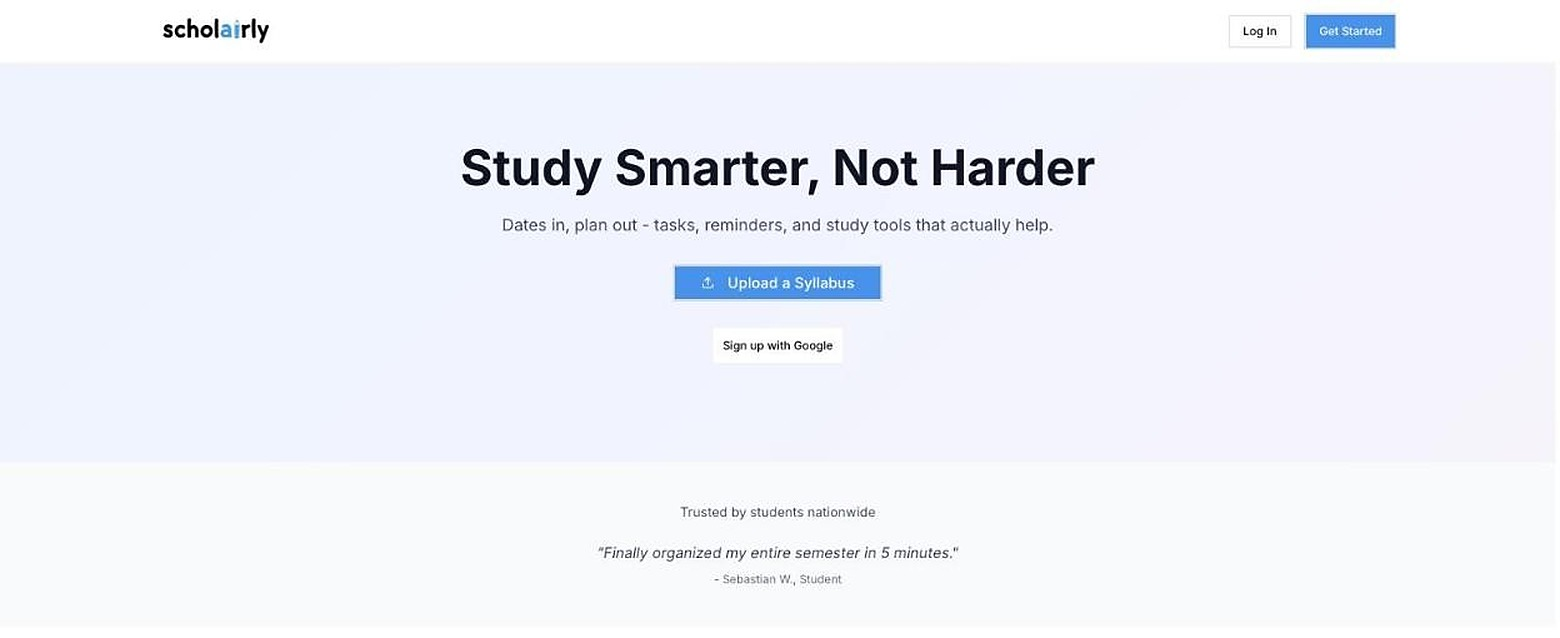
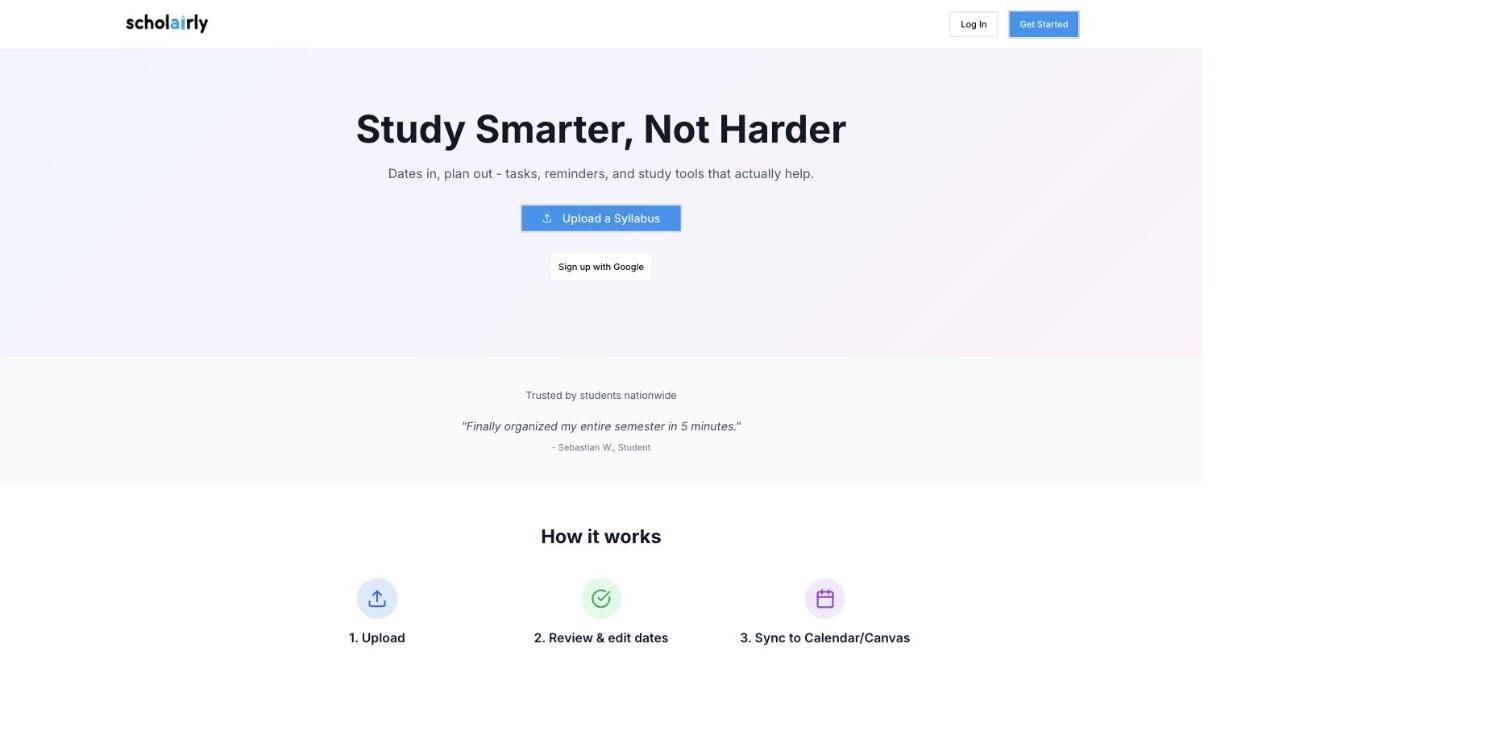
Add second images, fix mobile nav overflow, capitalize Scholairly
- Career Dashboard and Signal each get a second screenshot (the add-job /
  new-signal capture flow), matching the two-image pattern other projects use
- Reordered projects back: AI Suite before Career Dashboard — leads with
  current real CRE/AI work before the polished-but-unrelated job tracker
- Scholairly: capitalized everywhere in prose/UI text (site + GitHub
  profile README); left scholairly.com URLs and the folder path lowercase
- Re-cropped scholairly's landing screenshot to match the dashboard
  screenshot's aspect ratio — they were noticeably different heights
  side by side
- Mobile: found and fixed a real bug — the 8-item project nav was forcing
  itself into one row via flex:1, but flex items don't shrink below their
  own text's min-content width by default, so it silently overflowed
  instead of compressing. Switched it to horizontal scroll (same pattern
  as the Off Hours card track) instead of fighting flexbox to cram 8 short
  labels into one screen width

diff --git a/index.html b/index.html
@@ -1167,16 +1167,27 @@
 
   @media (max-width: 960px) {
     .proj-showcase { grid-template-columns: 1fr; }
+    /* 8 project names no longer fit evenly in one row (flex:1 with the
+       browser default min-width:auto refuses to shrink a flex item below
+       its own text content, so the row overflowed instead of compressing).
+       Scroll horizontally instead of squeezing — same pattern as the Off
+       Hours card track below. */
     .proj-nav {
       border-right: none;
       border-bottom: 1px solid var(--line);
       display: flex;
+      overflow-x: auto;
+      -webkit-overflow-scrolling: touch;
+      scrollbar-width: none;
     }
+    .proj-nav::-webkit-scrollbar { display: none; }
     .proj-nav-item {
-      flex: 1;
+      flex: 0 0 auto;
+      min-width: 150px;
       padding: 1.1rem 1rem;
       border-bottom: none;
       border-right: 1px solid var(--line);
+      white-space: nowrap;
     }
     .proj-nav-item:last-child { border-right: none; }
     .proj-nav-item.active::after { top: auto; left: 0; right: 0; bottom: -1px; width: auto; height: 2px; }
@@ -1512,7 +1523,7 @@
           <li><span>Based</span><strong>Atlanta / Miami</strong></li>
           <li><span>Studying</span><strong>Business Tech · CS · Math</strong></li>
           <li><span>Currently</span><strong>Goldenrod Companies</strong></li>
-          <li><span>Building</span><strong>scholairly · stackingplanner</strong></li>
+          <li><span>Building</span><strong>Scholairly · stackingplanner</strong></li>
           <li><span>Roles</span><strong>Founder · Engineer · Operator</strong></li>
         </ul>
       </aside>
@@ -1578,7 +1589,7 @@
             <div class="exp-detail-text">
               <ul>
                 <li>Built StackingPlanner.com, automating commercial real estate stacking plans with interactive visual layouts and saved dashboards.</li>
-                <li>Created scholairly.com — an AI-powered EdTech platform that reached <span class="count-num" data-target="147">147</span> student signups.</li>
+                <li>Created Scholairly.com — an AI-powered EdTech platform that reached <span class="count-num" data-target="147">147</span> student signups.</li>
                 <li>Owned the full product lifecycle: conception, development, launch, and user adoption.</li>
               </ul>
             </div>
@@ -1748,21 +1759,21 @@
           </div>
           <span class="proj-nav-arrow">→</span>
         </div>
-        <div class="proj-nav-item reveal" data-target="cd" data-hover>
-          <div class="proj-nav-num">/02</div>
-          <div class="proj-nav-name">Career Dashboard</div>
-          <div class="proj-nav-meta">
-            <span>Career Tech</span>
-            <span class="live">● Live</span>
-          </div>
-          <span class="proj-nav-arrow">→</span>
-        </div>
         <div class="proj-nav-item reveal" data-target="ai" data-hover>
-          <div class="proj-nav-num">/03</div>
+          <div class="proj-nav-num">/02</div>
           <div class="proj-nav-name">AI Suite</div>
           <div class="proj-nav-meta">
             <span>Automation</span>
             <span>● Internal</span>
+          </div>
+          <span class="proj-nav-arrow">→</span>
+        </div>
+        <div class="proj-nav-item reveal" data-target="cd" data-hover>
+          <div class="proj-nav-num">/03</div>
+          <div class="proj-nav-name">Career Dashboard</div>
+          <div class="proj-nav-meta">
+            <span>Career Tech</span>
+            <span class="live">● Live</span>
           </div>
           <span class="proj-nav-arrow">→</span>
         </div>
@@ -1777,7 +1788,7 @@
         </div>
         <div class="proj-nav-item reveal" data-target="sc" data-hover>
           <div class="proj-nav-num">/05</div>
-          <div class="proj-nav-name">scholairly</div>
+          <div class="proj-nav-name">Scholairly</div>
           <div class="proj-nav-meta">
             <span>EdTech</span>
             <span class="live">● Live</span>
@@ -1869,15 +1880,55 @@
           </div>
         </div>
 
+        <!-- AI Automation Suite -->
+        <div class="proj-panel panel-ai" id="panel-ai">
+          <div class="proj-panel-header">
+            <h3 class="proj-panel-title">AI Automation Suite</h3>
+            <span class="proj-visit coming">Internal Build</span>
+          </div>
+          <div class="proj-body">
+            <div>
+              <div class="proj-section">
+                <span class="proj-label">The Problem</span>
+                <p>Investment analysts at Goldenrod Companies were losing hours per deal to repeatable manual work: re-keying tenancy data into models, then hunting across scattered sources for market context before any real analysis could start.</p>
+              </div>
+              <div class="proj-section">
+                <span class="proj-label">What I Built</span>
+                <p>An internal AI toolkit that keeps growing as new bottlenecks come up: n8n pipelines that turn raw tenancy schedules into structured Excel financial models, and a market intelligence portal that pulls demographic, employer, and real estate data for any market into one AI-written brief.</p>
+              </div>
+            </div>
+            <div>
+              <div class="proj-section">
+                <span class="proj-label">Highlights</span>
+                <ul>
+                  <li>Automated extraction of submarket comps, property data, and lease terms — no manual data entry</li>
+                  <li>Prompt system queries OpenAI and Claude for structured field extraction, feeding existing Excel templates directly</li>
+                  <li>Market intelligence portal aggregates employer, demographic, and real estate data per market behind company login, with an AI-generated narrative brief</li>
+                  <li>Reduced multi-hour manual analysis to minutes per asset</li>
+                </ul>
+              </div>
+              <div class="proj-section">
+                <span class="proj-label">Stack</span>
+                <div class="proj-stack">
+                  <span data-tip="No-code workflow automation">n8n</span><span data-tip="Structured field extraction">OpenAI</span><span data-tip="Structured field extraction &amp; narrative generation">Claude</span><span data-tip="Backend for the market intelligence portal">FastAPI</span><span data-tip="Output format for analyst-ready models">Excel</span>
+                </div>
+              </div>
+            </div>
+          </div>
+        </div>
+
         <!-- Career Dashboard -->
         <div class="proj-panel panel-cd" id="panel-cd">
           <div class="proj-panel-header">
             <h3 class="proj-panel-title">Career Dashboard</h3>
             <a href="https://career-dashboard-ten.vercel.app" target="_blank" rel="noopener" class="proj-visit" data-hover>Visit ↗</a>
           </div>
-          <div class="proj-shots single">
+          <div class="proj-shots">
             <button type="button" class="proj-shot-trigger" data-hover>
               <img src="projects/career-dashboard/dashboard.jpg" alt="Career Dashboard job tracker showing a saved role with a 70/100 AI fit score" loading="lazy" />
+            </button>
+            <button type="button" class="proj-shot-trigger" data-hover>
+              <img src="projects/career-dashboard/add-job.jpg" alt="Adding a job to Career Dashboard: paste a link or job description and it fills in the details" loading="lazy" />
             </button>
           </div>
           <div class="proj-body">
@@ -1910,43 +1961,6 @@
                   <span data-tip="Cloud SQLite database">Turso</span>
                   <span data-tip="Powers scoring, chat &amp; extraction">Groq</span>
                   <span data-tip="Hosting &amp; CI/CD">Vercel</span>
-                </div>
-              </div>
-            </div>
-          </div>
-        </div>
-
-        <!-- AI Automation Suite -->
-        <div class="proj-panel panel-ai" id="panel-ai">
-          <div class="proj-panel-header">
-            <h3 class="proj-panel-title">AI Automation Suite</h3>
-            <span class="proj-visit coming">Internal Build</span>
-          </div>
-          <div class="proj-body">
-            <div>
-              <div class="proj-section">
-                <span class="proj-label">The Problem</span>
-                <p>Investment analysts at Goldenrod Companies were losing hours per deal to repeatable manual work: re-keying tenancy data into models, then hunting across scattered sources for market context before any real analysis could start.</p>
-              </div>
-              <div class="proj-section">
-                <span class="proj-label">What I Built</span>
-                <p>An internal AI toolkit that keeps growing as new bottlenecks come up: n8n pipelines that turn raw tenancy schedules into structured Excel financial models, and a market intelligence portal that pulls demographic, employer, and real estate data for any market into one AI-written brief.</p>
-              </div>
-            </div>
-            <div>
-              <div class="proj-section">
-                <span class="proj-label">Highlights</span>
-                <ul>
-                  <li>Automated extraction of submarket comps, property data, and lease terms — no manual data entry</li>
-                  <li>Prompt system queries OpenAI and Claude for structured field extraction, feeding existing Excel templates directly</li>
-                  <li>Market intelligence portal aggregates employer, demographic, and real estate data per market behind company login, with an AI-generated narrative brief</li>
-                  <li>Reduced multi-hour manual analysis to minutes per asset</li>
-                </ul>
-              </div>
-              <div class="proj-section">
-                <span class="proj-label">Stack</span>
-                <div class="proj-stack">
-                  <span data-tip="No-code workflow automation">n8n</span><span data-tip="Structured field extraction">OpenAI</span><span data-tip="Structured field extraction &amp; narrative generation">Claude</span><span data-tip="Backend for the market intelligence portal">FastAPI</span><span data-tip="Output format for analyst-ready models">Excel</span>
                 </div>
               </div>
             </div>
@@ -2005,18 +2019,18 @@
           </div>
         </div>
 
-        <!-- scholairly -->
+        <!-- Scholairly -->
         <div class="proj-panel panel-sc" id="panel-sc">
           <div class="proj-panel-header">
-            <h3 class="proj-panel-title">scholairly</h3>
+            <h3 class="proj-panel-title">Scholairly</h3>
             <a href="https://scholairly.com" target="_blank" rel="noopener" class="proj-visit" data-hover>Visit ↗</a>
           </div>
           <div class="proj-shots">
             <button type="button" class="proj-shot-trigger" data-hover>
-              <img src="projects/scholairly/landing.jpg" alt="scholairly landing page: study smarter with syllabus upload, tasks, reminders, and study tools" loading="lazy" />
+              <img src="projects/scholairly/landing.jpg" alt="Scholairly landing page: study smarter with syllabus upload, tasks, reminders, and study tools" loading="lazy" />
             </button>
             <button type="button" class="proj-shot-trigger" data-hover>
-              <img src="projects/scholairly/dashboard.jpg" alt="scholairly Academic Hub dashboard showing enrolled classes, upcoming tasks, and a calendar of assignments and exams" loading="lazy" />
+              <img src="projects/scholairly/dashboard.jpg" alt="Scholairly Academic Hub dashboard showing enrolled classes, upcoming tasks, and a calendar of assignments and exams" loading="lazy" />
             </button>
           </div>
           <div class="proj-body">
@@ -2027,7 +2041,7 @@
               </div>
               <div class="proj-section">
                 <span class="proj-label">What I Built</span>
-                <p>So I built scholairly, one platform with AI tools built around how students actually study: class-specific chatbots, syllabus analysis, auto-generated flashcards and practice tests, a scheduling assistant, and a document Q&amp;A tool for asking questions straight out of a PDF.</p>
+                <p>So I built Scholairly, one platform with AI tools built around how students actually study: class-specific chatbots, syllabus analysis, auto-generated flashcards and practice tests, a scheduling assistant, and a document Q&amp;A tool for asking questions straight out of a PDF.</p>
               </div>
             </div>
             <div>
@@ -2055,9 +2069,12 @@
             <h3 class="proj-panel-title">Signal</h3>
             <a href="https://signal-drab-omega.vercel.app" target="_blank" rel="noopener" class="proj-visit" data-hover>Visit ↗</a>
           </div>
-          <div class="proj-shots single">
+          <div class="proj-shots">
             <button type="button" class="proj-shot-trigger" data-hover>
               <img src="projects/signal/dashboard.jpg" alt="Signal's daily capture flow: today's signals and a triaged backlog" loading="lazy" />
+            </button>
+            <button type="button" class="proj-shot-trigger" data-hover>
+              <img src="projects/signal/new-signal.jpg" alt="Creating a new Signal: choose Someday, Deadline, or Specific time" loading="lazy" />
             </button>
           </div>
           <div class="proj-body">
@@ -2351,7 +2368,7 @@
         <li><a href="https://linkedin.com/in/nicholas-moffett" target="_blank" rel="noopener" data-hover>LinkedIn ↗</a></li>
         <li><a href="https://github.com/moff05" target="_blank" rel="noopener" data-hover>GitHub ↗</a></li>
         <li><a href="https://stackingplanner.com" target="_blank" rel="noopener" data-hover>StackingPlanner ↗</a></li>
-        <li><a href="https://scholairly.com" target="_blank" rel="noopener" data-hover>scholairly ↗</a></li>
+        <li><a href="https://scholairly.com" target="_blank" rel="noopener" data-hover>Scholairly ↗</a></li>
         <li><a href="mailto:nicmoffett5@gmail.com" data-hover>Email ↗</a></li>
       </ul>
     </div>
